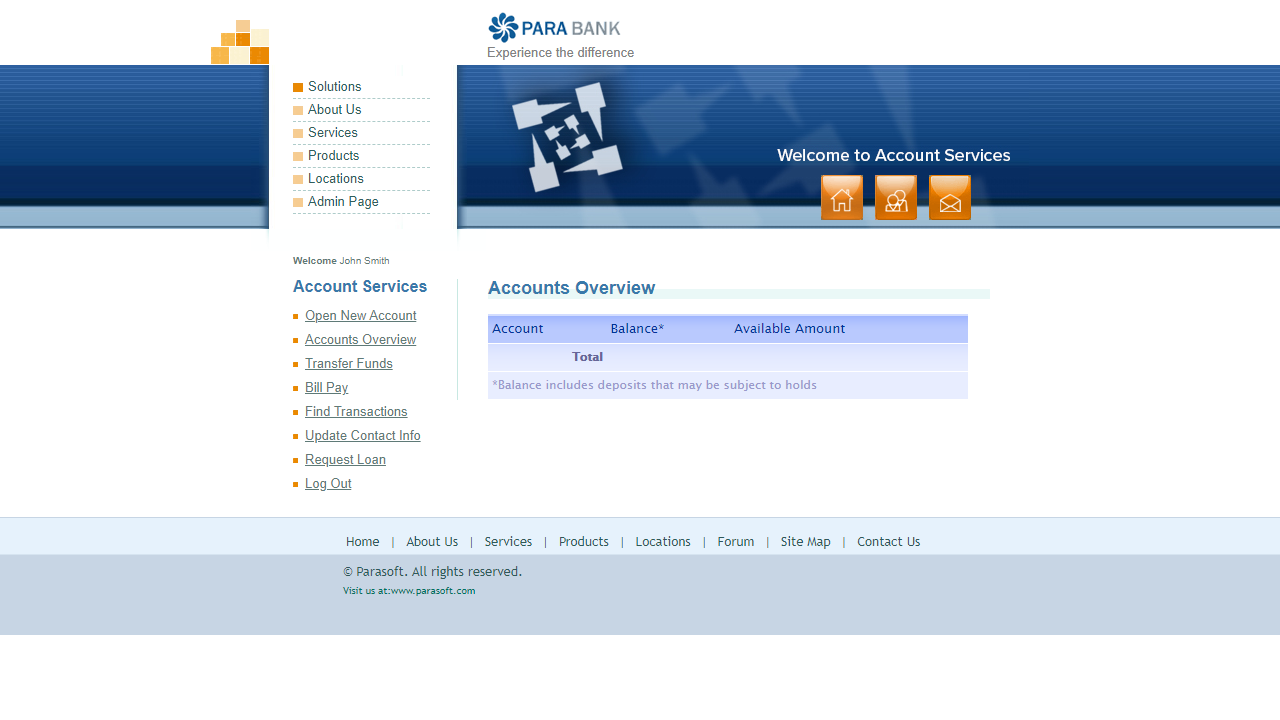
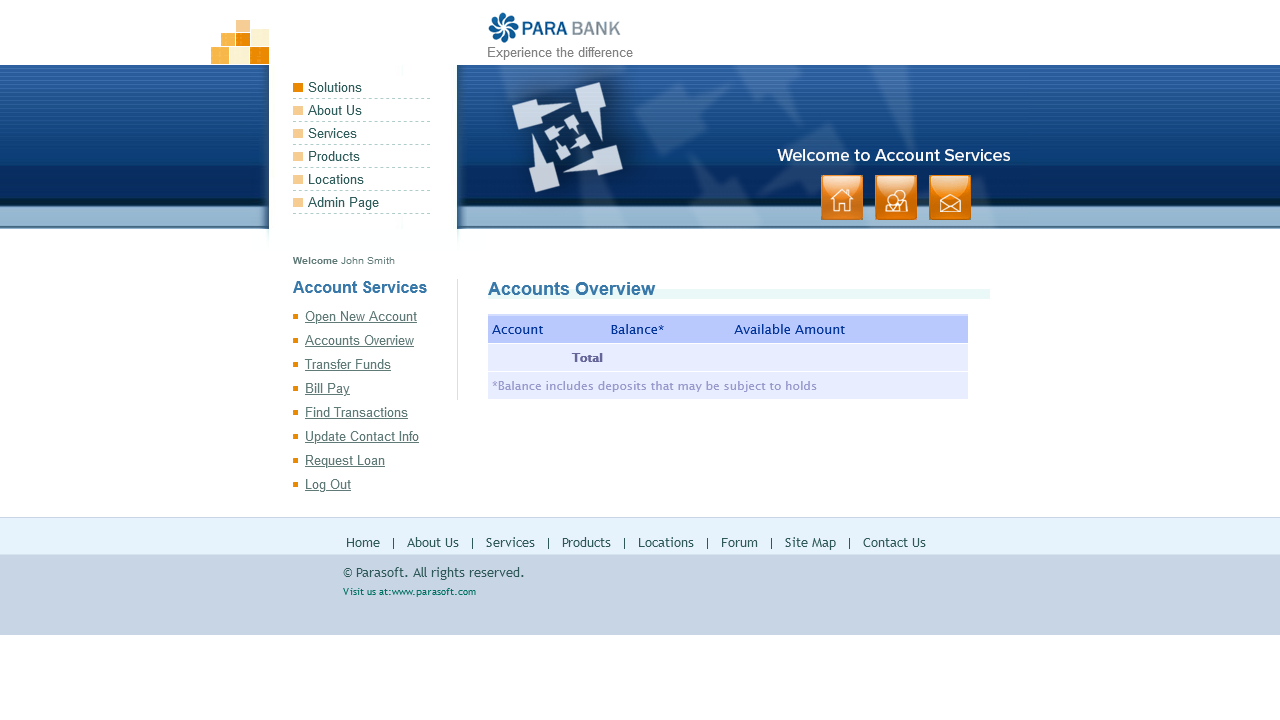
Sample screenshot and report

diff --git a/test-report.html b/test-report.html
@@ -229,4 +229,4 @@ header {
   font-size: 1rem;
   padding: 0 0.5rem;
 }
-</style></head><body><div id="jesthtml-content"><header><h1 id="title">Test Report</h1></header><div id="metadata-container"><div id="timestamp">Started: 2021-08-03 12:32:31</div><div id="summary"><div id="suite-summary"><div class="summary-total">Suites (1)</div><div class="summary-passed">1 passed</div><div class="summary-failed summary-empty">0 failed</div><div class="summary-pending summary-empty">0 pending</div></div><div id="test-summary"><div class="summary-total">Tests (1)</div><div class="summary-passed">1 passed</div><div class="summary-failed summary-empty">0 failed</div><div class="summary-pending summary-empty">0 pending</div></div></div></div><div id="suite-1" class="suite-container"><div class="suite-info"><div class="suite-path">C:\Users\diwakar.devapalan\Documents\Learn\AutomationProjects\Playwright\playwright-jest-typescript\Tests\home.test.ts</div><div class="suite-time warn">26.163s</div></div><div class="suite-tests"><div class="test-result passed"><div class="test-info"><div class="test-suitename">Login</div><div class="test-title">Verify menus in Home page</div><div class="test-status">passed</div><div class="test-duration">8.765s</div></div></div></div></div></div></body></html>
+</style></head><body><div id="jesthtml-content"><header><h1 id="title">Test Report</h1></header><div id="metadata-container"><div id="timestamp">Started: 2021-08-03 13:50:09</div><div id="summary"><div id="suite-summary"><div class="summary-total">Suites (1)</div><div class="summary-passed">1 passed</div><div class="summary-failed summary-empty">0 failed</div><div class="summary-pending summary-empty">0 pending</div></div><div id="test-summary"><div class="summary-total">Tests (1)</div><div class="summary-passed">1 passed</div><div class="summary-failed summary-empty">0 failed</div><div class="summary-pending summary-empty">0 pending</div></div></div></div><div id="suite-1" class="suite-container"><div class="suite-info"><div class="suite-path">C:\Users\diwakar.devapalan\Documents\Learn\AutomationProjects\Playwright\playwright-jest-typescript\Tests\home.test.ts</div><div class="suite-time warn">48.99s</div></div><div class="suite-tests"><div class="test-result passed"><div class="test-info"><div class="test-suitename">Login</div><div class="test-title">Verify menus in Home page</div><div class="test-status">passed</div><div class="test-duration">18.993s</div></div></div></div></div></div></body></html>

diff --git a/tests/home.test.ts b/tests/home.test.ts
@@ -1,5 +1,5 @@
 import LoginPage from "../PageObjects/login.page";
-import { Browser, chromium, Page } from "playwright";
+import { Browser, chromium, firefox, Page } from "playwright";
 import fs = require('fs');
 import HomePage from "../PageObjects/home.page";
 import BasePage from "../base.page";
@@ -16,7 +16,7 @@ describe('Login', () => {
     let base: BasePage;
     
     beforeAll( async () => {
-        browser = await chromium.launch({
+        browser = await firefox.launch({
             headless: false
             })
     })
@@ -24,6 +24,7 @@ describe('Login', () => {
     beforeEach( async () => {
         const context = await browser.newContext();
         page = await context.newPage();
+        await page.goto(data.url);
         login = new LoginPage(page);
         home = new HomePage(page);
         base = new BasePage(page);
